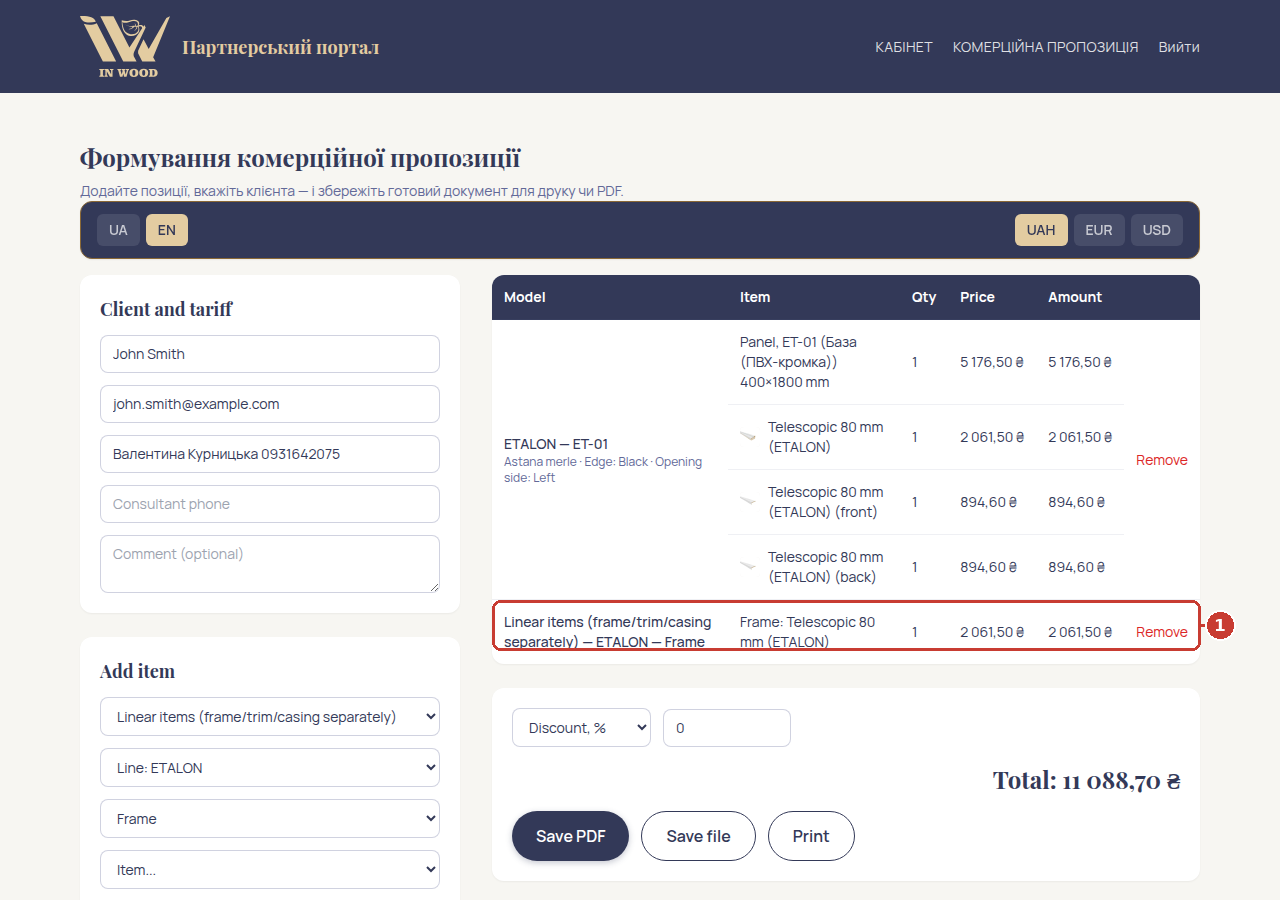
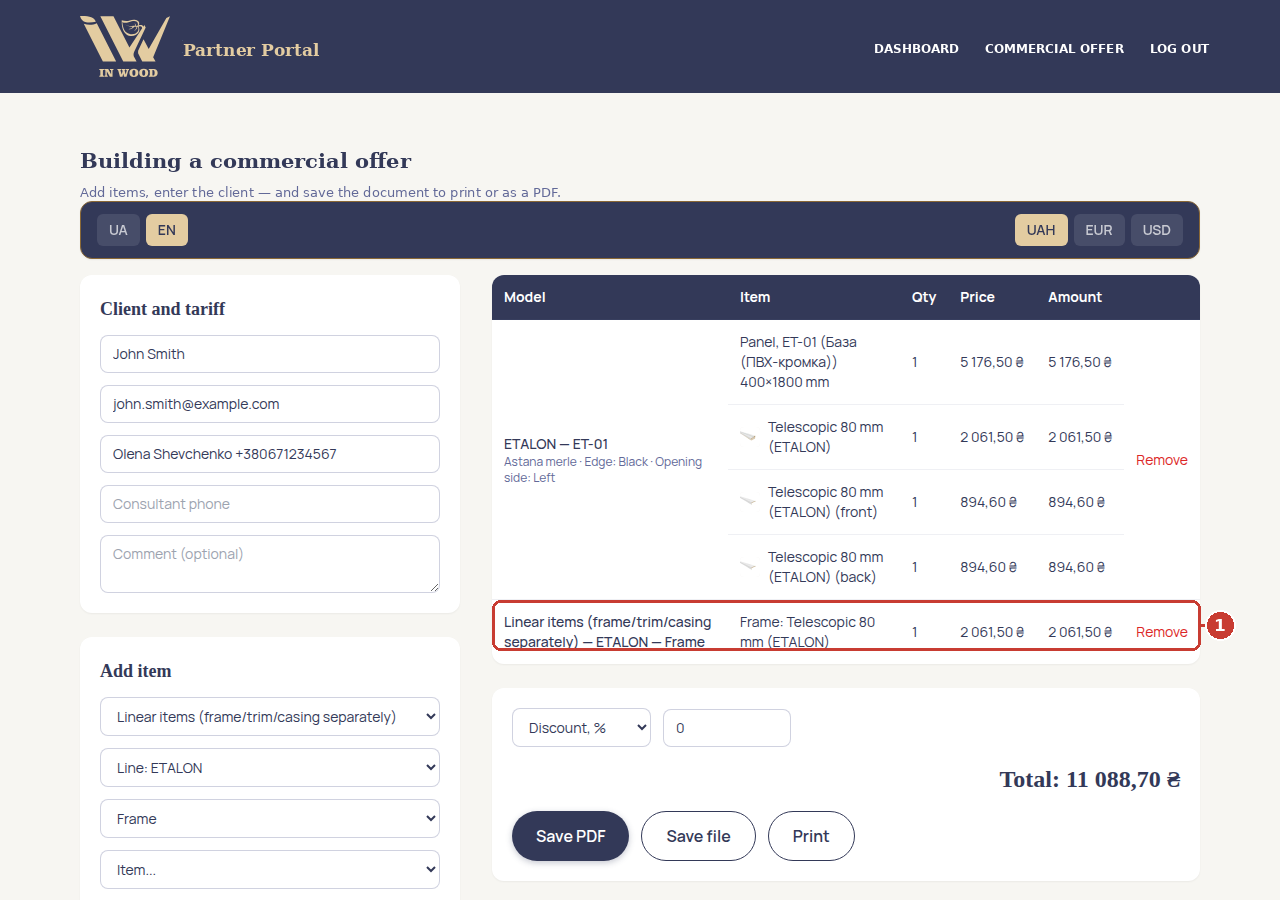
Прибрати реальне ім'я/телефон співробітниці зі скрінів обох інструкцій
На всіх скрінах (UA й EN) поле консультанта автоматично підставляло
справжнє ім'я й телефон дилерки (Валентина Курницька) — файли лежать
у public/documents без авторизації. Перезняв обидві інструкції з
вигаданим консультантом (Олена Шевченко) і вигаданим клієнтом.

Заразом:
- EN-скріни тепер показують справжню англійську обгортку порталу
  (хедер/навігація/кабінет/заголовок КП) замість старих українських —
  і текст інструкції підлаштовано під це (крок 1-3).
- Прибрано заважку, через яку в EN-гайді кабінет не мав нової кнопки
  "Calculator Guide" і показував застарілий вигляд.
- Виправлено обводку в кроці "Add-ons" (EN) — рамки сусідніх полів
  злипалися в суцільну лінію через надто щільні координати.
- Виправлено перекриття бейджа з текстом підказки в кроці 7 (UA,
  "Переклад на англійську").
- Усі скріни "результат" (погонажні/фурнітура додано) перезняті з
  точними координатами під реальну висоту рядка.

Claude-Session: https://claude.ai/code/session_01M4ragP56yp6LZMW2UaRQXo

diff --git a/public/documents/instruktsiya-kalkuliator-en.html b/public/documents/instruktsiya-kalkuliator-en.html
@@ -171,22 +171,22 @@
 
   <div class="step" id="s2">
     <div class="step-head"><span class="step-num">2</span><h2>Your dashboard — finding the calculator</h2></div>
-    <p>After signing in you land on your dashboard. In the top menu, click <b>«Комерційна пропозиція»</b> (Commercial Offer) — that's the calculator for building quotes.</p>
+    <p>After signing in you land on your dashboard. In the top menu, click <b>Commercial Offer</b> — that's the calculator for building quotes.</p>
     <div class="shot"><img src="instruktsiya-kalkuliator-en-img/e02-cabinet.png" alt="Partner dashboard"></div>
-    <div class="callout"><b>Good to know:</b> the same dashboard has a link to the full PDF product catalogue (an English version too — "EN catalogue") and to the "Довідник по лінійках IN WOOD" reference guide on colours, frame/trim/casing and terminology, if anything in the calculator itself is unclear.</div>
+    <div class="callout"><b>Good to know:</b> the same dashboard has a link to the full PDF product catalogue (an English version too — "EN catalogue") and to the "Довідник по лінійках IN WOOD" reference guide on colours, frame/trim/casing and terminology (Ukrainian only), if anything in the calculator itself is unclear.</div>
   </div>
 
   <div class="step" id="s3">
     <div class="step-head"><span class="step-num">3</span><h2>How the calculator is laid out</h2></div>
     <p>Before filling anything in, a quick look at the screen:</p>
     <ol class="points">
-      <li><b>Language &amp; currency bar</b> — switch the whole calculator to English and/or convert prices to EUR/USD (covered in step 8).</li>
+      <li><b>Language &amp; currency bar</b> — already set to English for your account; also lets you convert prices to EUR/USD (covered in step 8).</li>
       <li><b>"Client and tariff"</b> — the client's name and phone/email for this quote.</li>
       <li><b>"Add item"</b> — choose the model, colour, size and all the add-ons for one line of the quote here.</li>
       <li><b>Table on the right</b> — every item you add lands here, along with the running total.</li>
     </ol>
     <div class="shot"><img src="instruktsiya-kalkuliator-en-img/e03-overview.png" alt="Calculator overview with EN already selected"></div>
-    <p class="note">Click <b>EN</b> in the top bar first — the whole screen (field names, buttons, the table) switches to English, not just the printed quote. That's what every screenshot below already shows.</p>
+    <p class="note">The calculator opens with <b>EN</b> already selected for your account — field names, buttons and the table are all in English from the start. The <b>UA</b> button next to it switches everything to Ukrainian, if you ever need to.</p>
   </div>
 
   <div class="step" id="s4">
